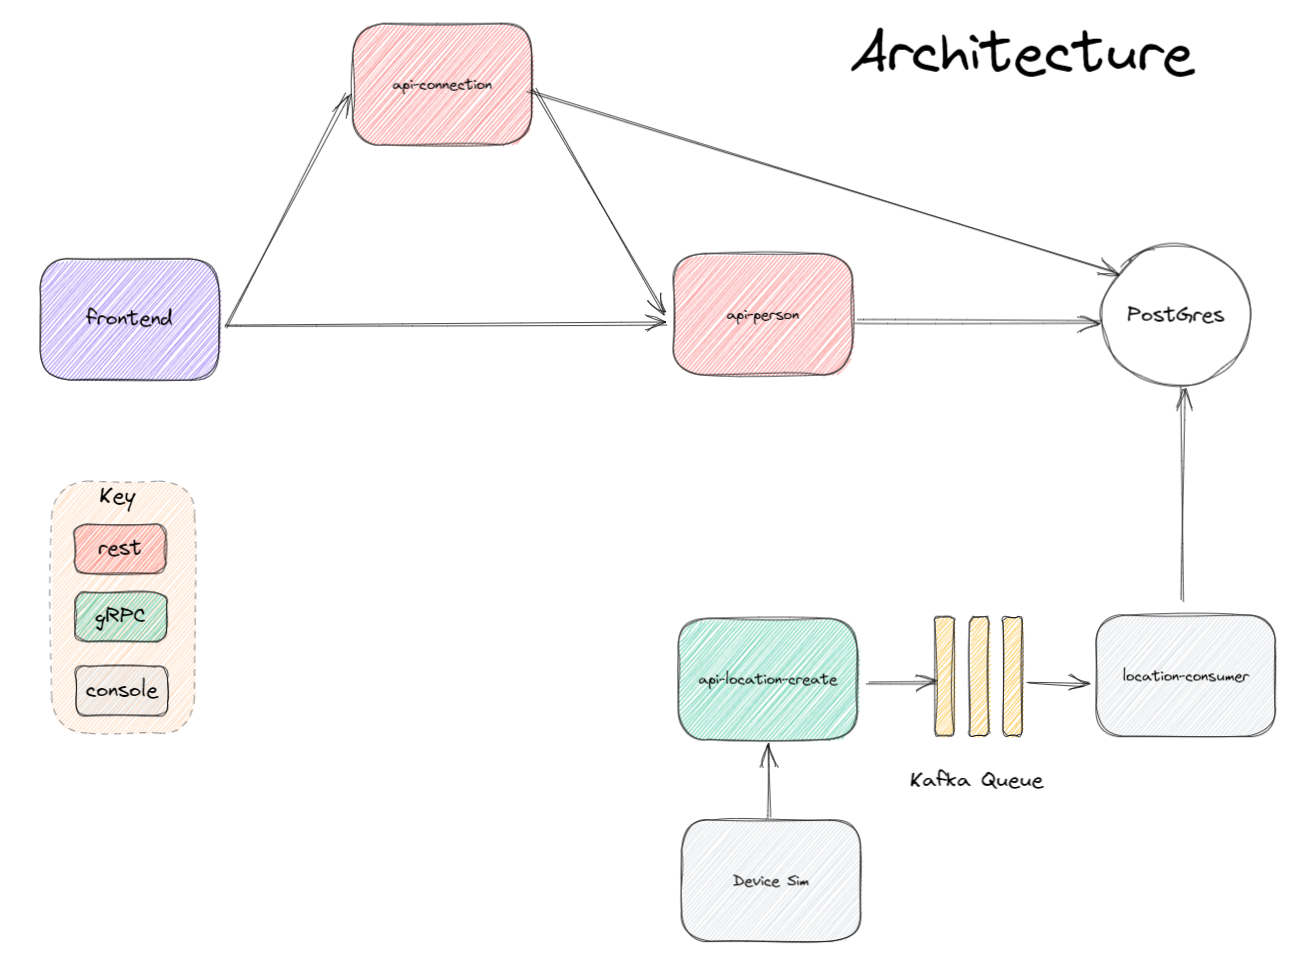
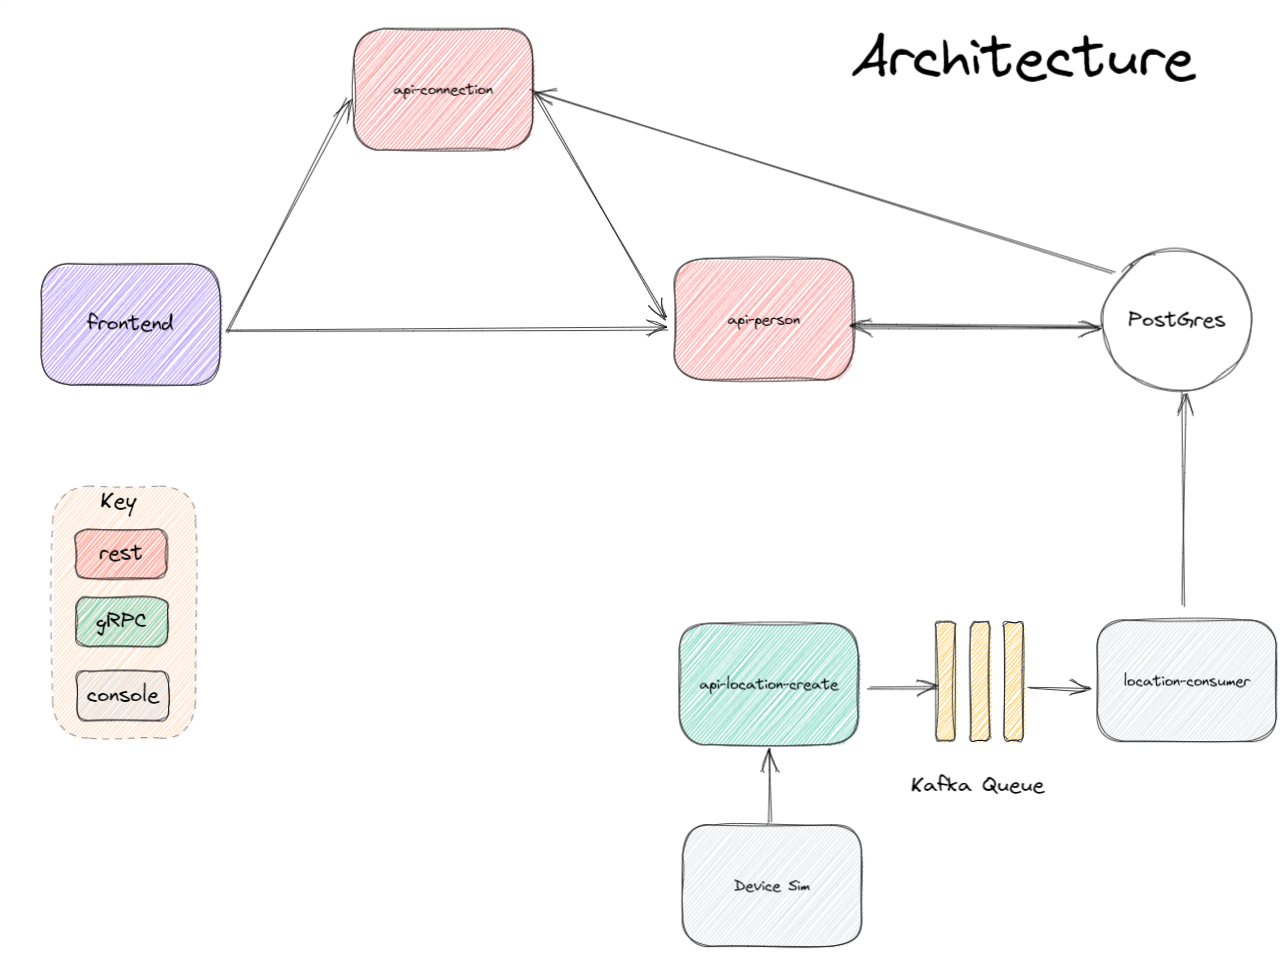
changes to arch diagram and comment cleanup

diff --git a/modules/frontend/src/components/Connection.js b/modules/frontend/src/components/Connection.js
@@ -20,10 +20,8 @@ class Connection extends Component {
 
   getConnections = (personId) => {
     if (personId) {
-      // TODO: endpoint should be abstracted into a config variable x
       fetch(
         `http://localhost:30007/api/persons/${personId}/connection?start_date=2020-01-01&end_date=2022-12-30&distance=5`
-        // `http://udaconnect-api-connection:5000/api/persons/${personId}/connection?start_date=2020-01-01&end_date=2020-12-30&distance=5`
       )
         .then((response) => response.json())
         .then((connections) =>

diff --git a/modules/frontend/src/components/Persons.js b/modules/frontend/src/components/Persons.js
@@ -4,8 +4,6 @@ import Connection from "./Connection";
 class Persons extends Component {
   constructor(props) {
     super(props);
-    // TODO: endpoint should be abstracted into a config variable
-    // This will only work if the app is accessed from the host machine / the apis are made public 
     this.endpoint_url = "http://localhost:30006/api/persons";
     this.state = {
       persons: [],

diff --git a/modules/frontend/src/index.js b/modules/frontend/src/index.js
@@ -10,7 +10,4 @@ ReactDOM.render(
   document.getElementById("root")
 );
 
-// If you want your app to work offline and load faster, you can change
-// unregister() to register() below. Note this comes with some pitfalls.
-// Learn more about service workers: https://bit.ly/CRA-PWA
 serviceWorker.unregister();

diff --git a/modules/api-location-create/main.py b/modules/api-location-create/main.py
@@ -27,13 +27,10 @@ class LocationServicer(location_pb2_grpc.LocationServiceServicer):
             "person_id": request.person_id,
             "longitude": request.longitude,
             "latitude": request.latitude
-            # "creation_time": request.creation_time #this is a nightmare!
         }
 
-        # this is where I want to send to kafka!
         encoded_request_value = json.dumps(request_value).encode()
         producer.send(TOPIC_NAME, encoded_request_value)
-        # # producer.flush()
         logger.info(f"Message {request_value} sent to {TOPIC_NAME}")
 
         return location_pb2.Location(**request_value)

diff --git a/modules/api-connection/app/udaconnect/controllers.py b/modules/api-connection/app/udaconnect/controllers.py
@@ -13,9 +13,6 @@ DATE_FORMAT = "%Y-%m-%d"
 
 api = Namespace("UdaConnect Connections", description="Connections via geolocation.")  # noqa
 
-
-# TODO: This needs better exception handling
-
 @api.route("/persons/<person_id>/connection")
 @api.param("start_date", "Lower bound of date range", _in="query")
 @api.param("end_date", "Upper bound of date range", _in="query")

diff --git a/modules/location-producer/writer.py b/modules/location-producer/writer.py
@@ -18,6 +18,5 @@ stub = location_pb2_grpc.LocationServiceStub(channel)
 for i in [5, 6, 1, 8, 9]:
     item = location_pb2.Location(
         person_id=i, longitude="144.361725", latitude="-38.149918")
-    # print(f'person_id={i}, longitude="144.361725", latitude="-38.149918"')
     response = stub.Create(item)
     time.sleep(5)

diff --git a/modules/api-location/app/udaconnect/controllers.py b/modules/api-location/app/udaconnect/controllers.py
@@ -10,10 +10,6 @@ DATE_FORMAT = "%Y-%m-%d"
 
 api = Namespace("UdaConnect locations", description="Retrieve or create locations")  # noqa
 
-
-# TODO: This needs better exception handling
-
-
 @api.route("/locations")
 @api.route("/locations/<location_id>")
 @api.param("location_id", "Unique ID for a given Location", _in="query")

diff --git a/modules/api-person/app/udaconnect/controllers.py b/modules/api-person/app/udaconnect/controllers.py
@@ -10,10 +10,6 @@ DATE_FORMAT = "%Y-%m-%d"
 
 api = Namespace("UdaConnect Person", description="Retrieve or create person records")  # noqa
 
-
-# TODO: This needs better exception handling
-
-
 @api.route("/persons")
 class PersonsResource(Resource):
     @accepts(schema=PersonSchema)
